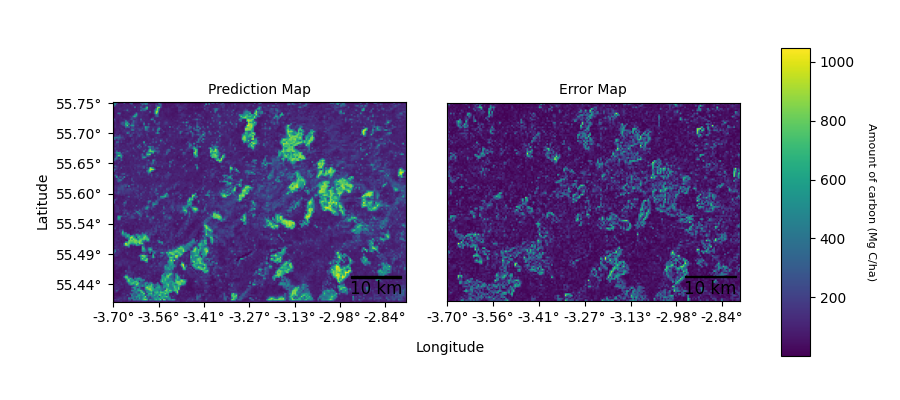
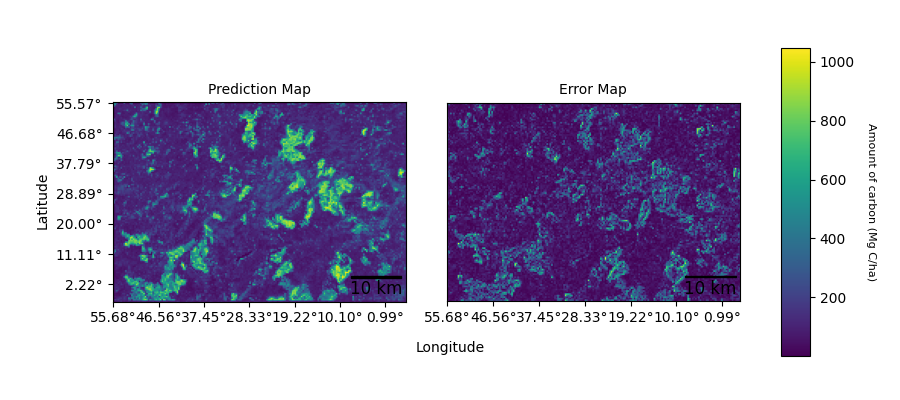
Carbon graph displaying area highlighted by user now

diff --git a/server/carbon_calc/ML/Carbon-Trading-Verfication/scotland_carbon/src/carbon_maps.py b/server/carbon_calc/ML/Carbon-Trading-Verfication/scotland_carbon/src/carbon_maps.py
@@ -58,12 +58,17 @@ def evaluate(model_path, input_path, isLog):
 
 
 # Function to plot prediction data and error data
-def plot_graph(result_data, err_data, title, map_style, out_file_name):
+def plot_graph(result_data, err_data, title, map_style, out_file_name, x_coord_l, x_coord_r, y_coord_t, y_coord_b):
     # Set font
+    print(' ------------------------- ')
+    print(' x_l: ', x_coord_l, '  x_r: ', x_coord_r, '  y_t: ', y_coord_t, '  y_b: ', y_coord_b)
+    print(' ------------------------- ')
     fontprops = fm.FontProperties(size=12)
     # Coordinates corresponding to our study area
-    x_coord_l, x_coord_r = -3.7037717, -2.7696528
-    y_coord_t, y_coord_b = 55.7541937, 55.4075244
+    
+    #x_coord_l, x_coord_r = -3.7037717, -2.7696528
+    #y_coord_t, y_coord_b = 55.7541937, 55.4075244
+    
     # Store data shape
     x_shape = result_data.shape[1]
     y_shape = result_data.shape[0]
@@ -185,7 +190,7 @@ def plot_single_graph(result_data, map_style, out_file_name):
 # Get SOC Ground Truth
 #soc_truth = rasterio.open(fr'C:\Users\admin\OneDrive\Computing\Yr5 Advanced Computing\MAC Project\Carbon-Trading-Verification\scotland_carbon\data\Train_SOCS_0-30_27700_clipped.tif').read(1)
 
-def main():
+def main(x_coord_l, x_coord_r, y_coord_t, y_coord_b):
     soc_truth = rasterio.open(fr'/Users/kobikelemen/flutter/packages/eng-change-computing-project/server/carbon_calc/ML/Carbon-Trading-Verfication/scotland_carbon/data/Train_SOCS_0-30_27700_clipped.tif').read(1)
     
     # Get SOC Prediction
@@ -200,7 +205,7 @@ def main():
     # Get AGB Prediction
     agb_result = evaluate(model_paths['model_H'], input_paths['model_H'], False)
     # Uncomment to plot agb predicion and error graphs
-    plot_graph(agb_result, np.abs(agb_truth - agb_result[:130, :192]), 'YlGn','viridis' ,fr'/Users/kobikelemen/flutter/packages/eng-change-computing-project/server/flask_server/carbon_prediction_images/')
+    plot_graph(agb_result, np.abs(agb_truth - agb_result[:130, :192]), 'YlGn','viridis' ,fr'/Users/kobikelemen/flutter/packages/eng-change-computing-project/server/flask_server/carbon_prediction_images/graph', x_coord_l, x_coord_r, y_coord_t, y_coord_b)
 
     # Uncomment to plot total carbon ground truth 
     # plot_single_graph(

diff --git a/server/flask_server/flaskr/lat_long.py b/server/flask_server/flaskr/lat_long.py
@@ -18,9 +18,17 @@ def carbon():
     #if request.method == 'POST':
     #    format_data.crop_image(request.data)
 
-    print(' REQUEST: ')
-    print(request.form)
-    main()
+    # latitude is y, longitude is x
+    print(' ---- request.form[top_l_lat] ---- ', request.form['top_l_lat'])
+    print(' ---- request.form[top_l_long] ---- ', request.form['top_l_long'])
+    print(' ---- request.form[btm_r_lat] ---- ', request.form['btm_r_lat'])
+    print(' ---- request.form[btm_r_long] ---- ', request.form['btm_r_long'])
+    main(
+        float(request.form['top_l_long']),
+        float(request.form['btm_r_long']),
+        float(request.form['top_l_lat']),
+        float(request.form['btm_r_lat'])
+        )
     # return request.form
     return send_file('/Users/kobikelemen/flutter/packages/eng-change-computing-project/server/flask_server/carbon_prediction_images/graph.png', mimetype='image/png')
 

diff --git a/server/flask_server/flaskr/__init__.py b/server/flask_server/flaskr/__init__.py
@@ -2,6 +2,7 @@ import os
 from flask import Flask
 
 # RUN THESE COMMANDS IN 'flask_server' DIRECTORY TO RUN SERVER:
+#  -- FOR MAC ---
 
 # export FLASK_APP=flaskr
 # export FLASK_ENV=development
@@ -26,9 +27,6 @@ def create_app(test_config=None):
     except OSError:
         pass
 
-    @app.route('/hello')
-    def hello():
-        return 'Helloooooo'
     from . import lat_long
     app.register_blueprint(lat_long.bp)
     return app
